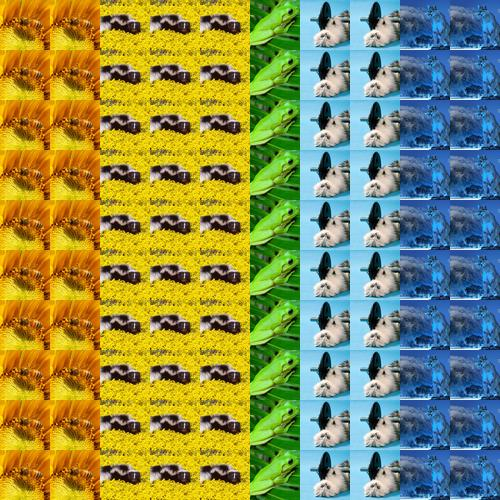
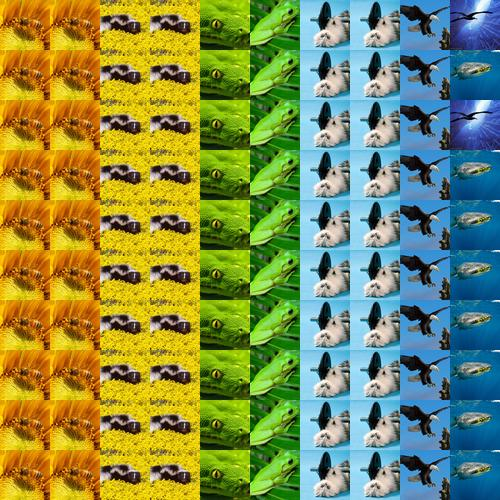
RGB averaging now done in database, then data used when required when we make a mosaic. -Lower quality than images before

Changed region(s): [[0.78, 0.0, 1.0, 1.0], [0.39, 0.0, 0.51, 1.0]]

diff --git a/mosaic.py b/mosaic.py
@@ -99,6 +99,20 @@ def closest_tile(tile_rgb_averages, block_rgb_average, vary_tiles):
     return sorted_rgb_values[0]
 
 ##################
+#returns closest tile to block given database images
+##################
+def closest_tile_db(db_tiles, block_rgb_average, vary_tiles):
+  tile_rgb_averages = []
+  for tile in db_tiles:
+    tile_rgb_averages.append((tile[1], tile[2], tile[3]))
+
+  sorted_rgb_values = sorted(tile_rgb_averages, key=lambda x:distance(x, block_rgb_average))
+  if vary_tiles:
+    return sorted_rgb_values[randint(0, 1)]
+  else:
+    return sorted_rgb_values[0]
+  
+##################
 #returns closest tile to block based on hash value
 ##################
 def closest_tile_hashing(tile_hashes, block_hash, vary_tiles):
@@ -114,27 +128,42 @@ def closest_tile_hashing(tile_hashes, block_hash, vary_tiles):
 def create_mosaic(source_image, input_tile_size, outlier_flagging, vary_tiles, histogram_average):
   target_image = Image.open(source_image)
   tile_size = input_tile_size, input_tile_size
-
   target_image = resize_source_image(target_image)
-  tiles = {}
-  tiles = resize_library_images(tile_size)
 
-  #Key = RGB, Value = Image
-  tile_rgb_averages = {}
+  sqlite_file = 'image_library'
+
+  db = sqlite3.connect(sqlite_file)
+  cursor = db.cursor() 
+
+  cursor.execute("SELECT * FROM tiles")
+  db_tiles = cursor.fetchall()
+
+  db.commit()
+  db.close()
+
   #HASHING CODE
   #Key = hash, Value = Image
   #tile_hashes = {}
-  for t in tiles:
-    tile_rgb_averages[calc_average_rgb(t, histogram_average, False)] = t
-    #HASHING CODE
-    #tile_hashes[calc_image_hash(t)] = t
+
+  #Key = RGB, Value = Image
+  tile_rgb_averages = {} 
+
+  #resize and put tile images from databse into our rgb/image dictionary
+  print 'Gathering image tiles from library...'
+  for i in range(0, len(db_tiles), 1):
+    t = Image.open('library/'+(db_tiles[i])[0])
+    t = ImageOps.fit(t, tile_size, Image.ANTIALIAS)
+
+    tile_rgb_averages[((db_tiles[i])[1], (db_tiles[i])[2], (db_tiles[i])[3])] = t
+
+  #HASHING CODE
+  #tile_hashes[calc_image_hash(t)] =l t
 
   #Key = Coordinate in Source, Value = RGB
   block_rgb_dict = {}
   #Key = Coordinate in Source, Value = hash
   block_hash_dict = {}
   cropped_image_xy = divide_image_into_blocks(target_image, tile_size, block_rgb_dict, block_hash_dict, histogram_average)
-  #print block_hash_dict
 
   #create base mosaic image of default dimensions
   mosaic = Image.new('RGB', (target_image.size[0], target_image.size[1]), color=(255, 0, 255))
@@ -144,37 +173,25 @@ def create_mosaic(source_image, input_tile_size, outlier_flagging, vary_tiles, h
   num_tiles_placed = 0
   progress_percentage = 0
   
-  os.chdir(r'..')
-  print os.getcwd()  
+  db_tiles_rgb_values = []
+
   for i in range(0, len(block_rgb_dict.keys()), 1):    
     #find closest colour tile in library to this specific block
+    tile_rgb_to_replace_block = closest_tile(tile_rgb_averages.keys(), block_rgb_dict.values()[i], vary_tiles)
 
-    sqlite_file = 'image_library'
-
-    db = sqlite3.connect(sqlite_file)
-    cursor = db.cursor() 
-
-    cursor.execute("SELECT * FROM tiles")
-    db_tiles = cursor.fetchall()
-
-    db.commit()
-    db.close()
-
-    tile_to_replace_block = closest_tile(tile_rgb_averages.keys(), block_rgb_dict.values()[i], vary_tiles)
-    
     #HASHING CODE
-    #tile_to_replace_block = closest_tile_hashing(tile_hashes.keys(), block_hash_dict.values()[i], vary_tiles)
+    #tile_rgb_to_replace_block = closest_tile_hashing(tile_hashes.keys(), block_hash_dict.values()[i], vary_tiles)
 
     #flag up when there isn't a close tile match, indicating we need a better library image
     #50 is a magic number, how do we determine where that comes from?
-    if outlier_flagging & (distance(tile_to_replace_block, block_rgb_dict.values()[i]) > 50):
+    if outlier_flagging & (distance(tile_rgb_to_replace_block, block_rgb_dict.values()[i]) > 50):
       print 'Distance between block: ', block_rgb_dict.keys()[i], 'and its tile is greater than 50'
     else:
       #paste tile into place in output mosaic image
-      mosaic.paste(tile_rgb_averages.get(tile_to_replace_block), (x_offset,y_offset))
+      mosaic.paste(tile_rgb_averages.get(tile_rgb_to_replace_block), (x_offset,y_offset))
     
     #HASHING CODE
-    #mosaic.paste(tile_hashes.get(tile_to_replace_block), (x_offset,y_offset))
+    #mosaic.paste(tile_hashes.get(tile_rgb_to_replace_block), (x_offset,y_offset))
 
     #sets the point to place the next tile
     if y_offset < cropped_image_xy[1]:
